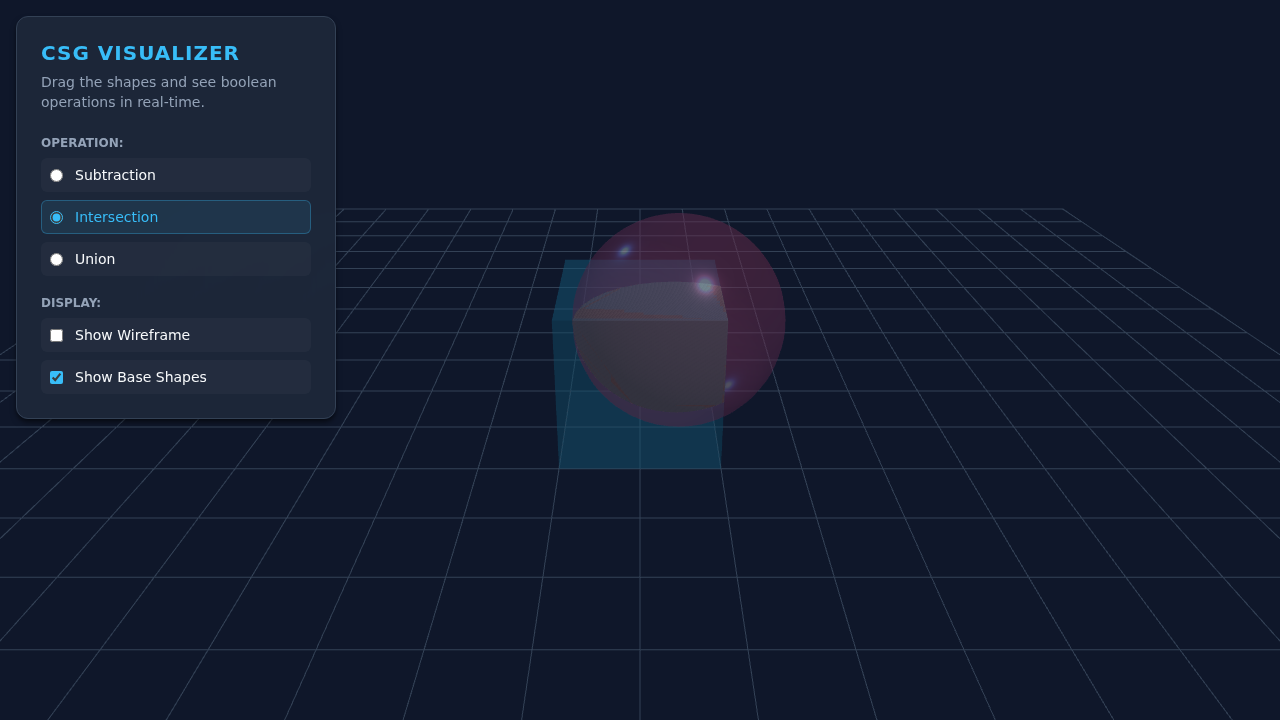
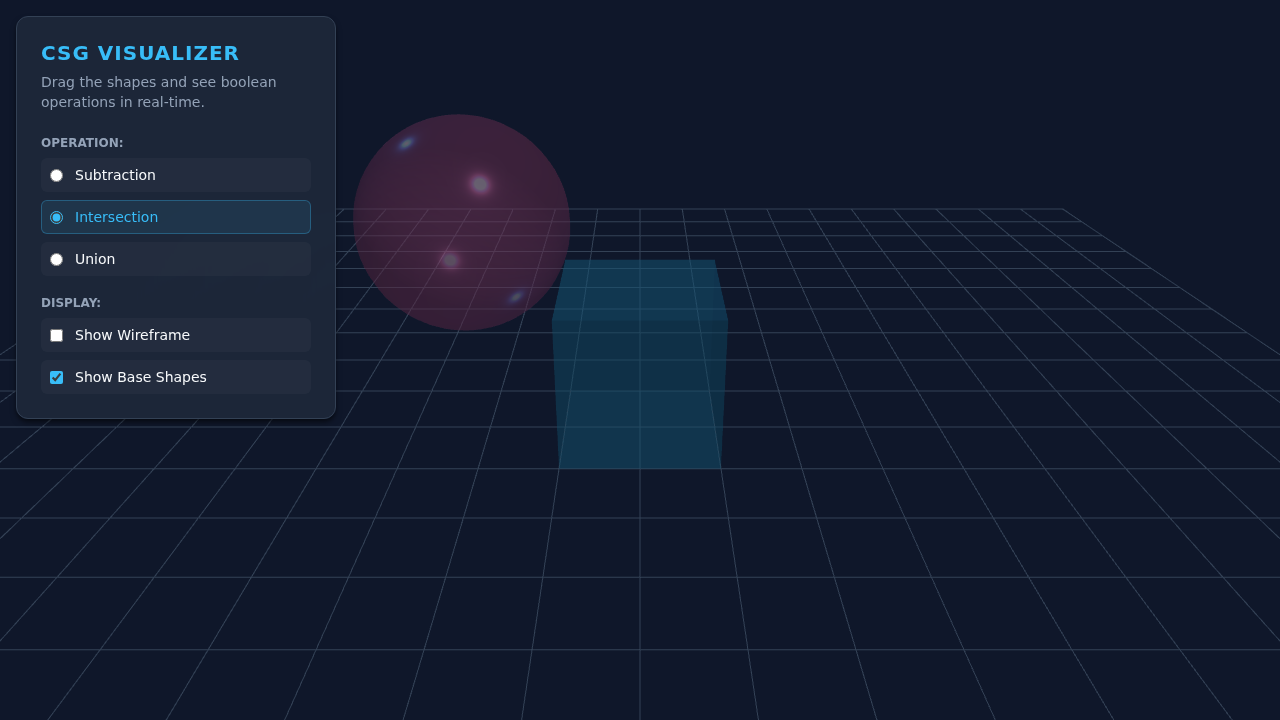
fix: correct evaluator to output single material geometry
Set `evaluator.useGroups = false` in `script.js` of the `csg-visualizer` to prevent the generation of multi-material groups, allowing the intersection/union/subtraction meshes to render correctly using a single `MeshStandardMaterial`.

Changed region(s): [[0.25, 0.1528, 0.625, 0.6111]]

diff --git a/public/csg-visualizer/script.js b/public/csg-visualizer/script.js
@@ -100,6 +100,7 @@ function initCSG() {
   // Setup Evaluator and Result Mesh
   evaluator = new Evaluator();
   evaluator.attributes = ['position', 'normal'];
+  evaluator.useGroups = false;
 
   resultMesh = new THREE.Mesh(new THREE.BufferGeometry(), materialResult);
   resultMesh.castShadow = true;

diff --git a/validate.py b/validate.py
@@ -5,70 +5,58 @@ import time
 import os
 from playwright.sync_api import sync_playwright
 
-PORT = 8000
-DIRECTORY = "/app/public"
+def run_server():
+    # Serve from the public directory so that the import maps and assets resolve properly.
+    Handler = http.server.SimpleHTTPRequestHandler
+    class MyTCPServer(socketserver.TCPServer):
+        allow_reuse_address = True
 
-class Handler(http.server.SimpleHTTPRequestHandler):
-    def __init__(self, *args, **kwargs):
-        super().__init__(*args, directory=DIRECTORY, **kwargs)
-
-def start_server():
-    socketserver.TCPServer.allow_reuse_address = True
-    httpd = socketserver.TCPServer(("", PORT), Handler)
-    httpd.serve_forever()
+    with MyTCPServer(("", 8000), Handler) as httpd:
+        httpd.serve_forever()
 
 def run_validation():
-    server_thread = threading.Thread(target=start_server, daemon=True)
+    print("Starting server...")
+    server_thread = threading.Thread(target=run_server, daemon=True)
     server_thread.start()
 
     # Give the server a moment to start
-    time.sleep(1)
+    time.sleep(2)
 
+    print("Starting Playwright...")
     with sync_playwright() as p:
         browser = p.chromium.launch()
         page = browser.new_page()
 
         # Navigate to the demo
-        page.goto(f"http://localhost:{PORT}/inverse-kinematics-arm/")
+        page.goto('http://localhost:8000/csg-visualizer/index.html')
 
-        # Wait for the canvas to load and be visible
-        page.wait_for_selector("canvas")
-        time.sleep(1) # Let initial rendering settle
+        # Wait for the scene to load and render
+        time.sleep(3)
 
-        # Ensure screenshot directory exists
-        os.makedirs("/app/screenshots", exist_ok=True)
+        # Perform some interaction (drag to move the brush)
+        print("Interacting with the demo...")
+        container = page.locator('#canvas-container')
 
-        # Take an initial screenshot
-        # page.screenshot(path="/app/screenshots/inverse-kinematics-arm-initial.png")
+        # Select intersection operation
+        page.locator('input[value="INTERSECTION"]').check()
 
-        # Interact with the canvas (drag the target point)
-        # We can simulate dragging by dispatching pointer events
-        canvas = page.locator("canvas")
-        box = canvas.bounding_box()
+        # Simulate dragging the object
+        container.hover()
+        page.mouse.down()
+        page.mouse.move(200, 200, steps=10)
+        page.mouse.move(400, 300, steps=10)
+        page.mouse.up()
 
-        if box:
-            # Move target to top right
-            x_start = box["width"] / 2
-            y_start = box["height"] / 2
+        # Wait a moment to capture the new shapes
+        time.sleep(2)
 
-            x_end = box["width"] * 0.8
-            y_end = box["height"] * 0.2
+        print("Taking screenshot...")
+        os.makedirs('../screenshots', exist_ok=True)
+        page.screenshot(path='../screenshots/csg-visualizer.png')
 
-            page.mouse.move(x_start, y_start)
-            page.mouse.down()
-            page.mouse.move(x_end, y_end, steps=10)
-            page.mouse.up()
-
-            # Let the arm settle and animation play out
-            time.sleep(0.5)
-
-            # Take a final screenshot
-            page.screenshot(path="/app/screenshots/inverse-kinematics-arm.png")
-            print("Validation complete. Screenshot saved.")
-        else:
-            print("Failed to find canvas bounding box.")
-
+        print("Validation complete.")
         browser.close()
 
-if __name__ == "__main__":
+if __name__ == '__main__':
+    os.chdir(os.path.join(os.path.dirname(os.path.abspath(__file__)), 'public'))
     run_validation()
